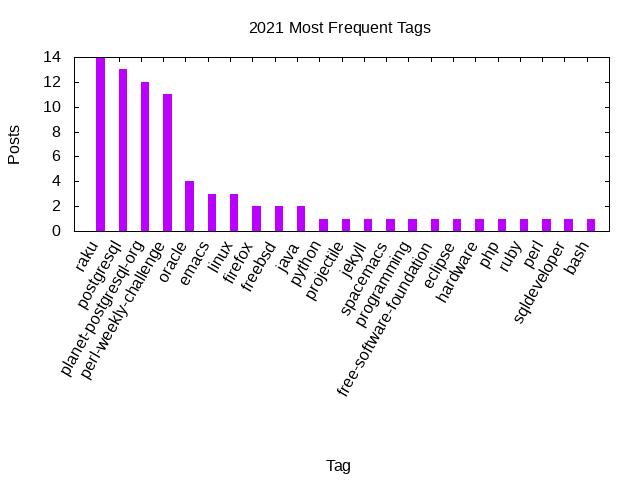
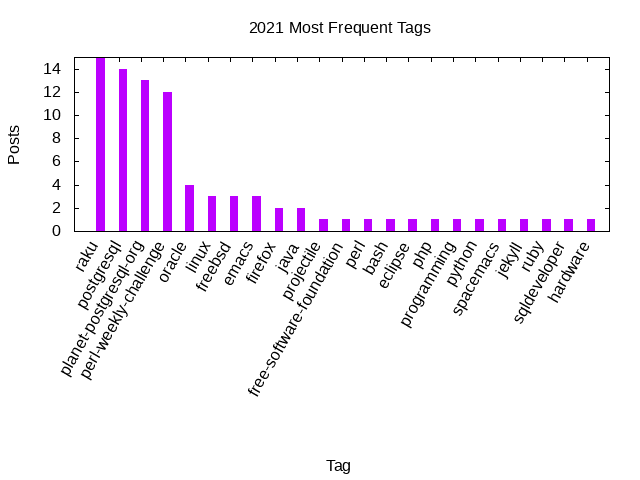
Stats update

diff --git a/_includes/stats/2021.md b/_includes/stats/2021.md
@@ -1,33 +1,33 @@
 <a name="2021" />
 ## 2021 (work in progress)
 
-**38 total posts** have been written on 2021.
+**40 total posts** have been written on 2021.
 There have been *23 different tags* used, the most
 popular being (sorted by number of posts):
  
-- *raku* (14 posts)  
-- *postgresql* (13 posts)  
-- *planet-postgresql-org* (12 posts)  
-- *perl-weekly-challenge* (11 posts)  
+- *raku* (15 posts)  
+- *postgresql* (14 posts)  
+- *planet-postgresql-org* (13 posts)  
+- *perl-weekly-challenge* (12 posts)  
 - *oracle* (4 posts)  
-- *emacs* (3 posts)  
 - *linux* (3 posts)  
+- *freebsd* (3 posts)  
+- *emacs* (3 posts)  
 - *firefox* (2 posts)  
-- *freebsd* (2 posts)  
 - *java* (2 posts)  
-- *python* (1 posts)  
 - *projectile* (1 posts)  
-- *jekyll* (1 posts)  
-- *spacemacs* (1 posts)  
-- *programming* (1 posts)  
 - *free-software-foundation* (1 posts)  
-- *eclipse* (1 posts)  
-- *hardware* (1 posts)  
-- *php* (1 posts)  
-- *ruby* (1 posts)  
 - *perl* (1 posts)  
+- *bash* (1 posts)  
+- *eclipse* (1 posts)  
+- *php* (1 posts)  
+- *programming* (1 posts)  
+- *python* (1 posts)  
+- *spacemacs* (1 posts)  
+- *jekyll* (1 posts)  
+- *ruby* (1 posts)  
 - *sqldeveloper* (1 posts)  
-- *bash* (1 posts).<br/>
+- *hardware* (1 posts).<br/>
 <br/>
 The following is the overall 2021 post ratio by month:
 <br/>
@@ -46,7 +46,7 @@ The following is the overall 2021 post ratio by tag (showing max 30 tags):
 
 <div align="right">
 <small>
-Last generated on 2021-03-29 at 16:37
+Last generated on 2021-04-08 at 9:15
 </small>
 </div>
 
